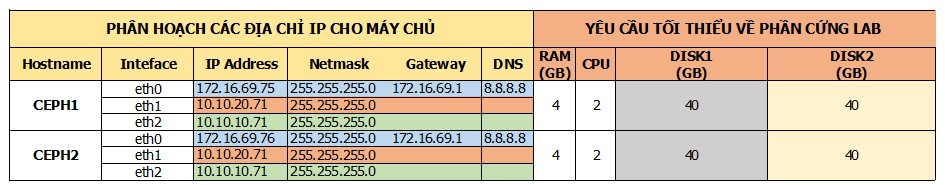
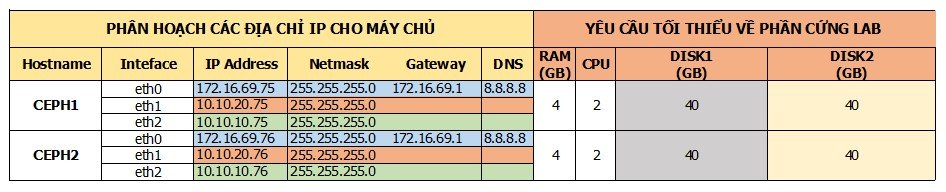
fix content install luminous Ubuntu & Cent

diff --git a/docs/Cai_dat/luminous/2.ceph-deploy-lumious-CentOS7.4.md b/docs/Cai_dat/luminous/2.ceph-deploy-lumious-CentOS7.4.md
@@ -8,11 +8,11 @@
 
 ## Mô hình 
 - Sử dụng mô hình
-![img](../images/ceph_luminous/luminous-topo.jpg)
+![img](../../../images/ceph_luminous/luminous-topo.jpg)
 
 ## IP Planning
 - Phân hoạch IP cho các máy chủ trong mô hình trên
-![img](../images/ceph_luminous/luminous-ip-cent72.jpg)
+![img](../../../images/ceph_luminous/luminous-ip-cent72.jpg)
 
 ## Chuẩn bị và môi trường LAB
  
@@ -70,12 +70,36 @@
   ```
 - Khai báo repos cho CEPH
   ```sh
-  sudo yum install -y yum-utils
-  sudo yum-config-manager --add-repo https://dl.fedoraproject.org/pub/epel/7/x86_64/ 
-  sudo yum install --nogpgcheck -y epel-release 
-  sudo rpm --import /etc/pki/rpm-gpg/RPM-GPG-KEY-EPEL-7 
-  sudo rm /etc/yum.repos.d/dl.fedoraproject.org*
+  sudo vi /etc/yum.repos.d/ceph.repo
   ```
+
+  Nội dung:
+  ```sh
+  [Ceph]
+  name=Ceph packages for $basearch
+  baseurl=http://download.ceph.com/rpm-luminous/el7/$basearch
+  enabled=1
+  gpgcheck=1
+  type=rpm-md
+  gpgkey=https://download.ceph.com/keys/release.asc
+
+  [Ceph-noarch]
+  name=Ceph noarch packages
+  baseurl=http://download.ceph.com/rpm-luminous/el7/noarch
+  enabled=1
+  gpgcheck=1
+  type=rpm-md
+  gpgkey=https://download.ceph.com/keys/release.asc
+
+  [ceph-source]
+  name=Ceph source packages
+  baseurl=http://download.ceph.com/rpm-luminous/el7/SRPMS
+  enabled=1
+  gpgcheck=1
+  type=rpm-md
+  gpgkey=https://download.ceph.com/keys/release.asc
+  ```
+
 - Update sau khi khai báo repo
   ```sh
   yum -y update
@@ -181,7 +205,11 @@ Thực hiện trên host ceph1
 
   [mon.ceph1]
   host = ceph1
-  mon addr = 10.10.10.70
+  mon addr = 10.10.10.75
+
+  [mon.ceph2]
+  host = ceph2
+  mon addr = 10.10.10.76
 
   [osd]
   osd crush update on start = false
@@ -192,17 +220,13 @@ Thực hiện trên host ceph1
   ```sh
   ceph-deploy install --release luminous ceph1 ceph2
   ```
-- Chuyển cấu hình ceph.conf sang các host ceph khác
-  ```sh
-  ceph-deploy --overwrite-conf config push ceph2
-  ```
 
 - Cấu hình `MON` (một thành phần của CEPH)
   ```sh
   ceph-deploy mon create-initial
   ```
 
-- Sau khi thực hiện lệnh để cấu hình `MON` xong, sẽ sinh thêm ra 03 file : `ceph.bootstrap-mds.keyring`, `ceph.bootstrap-osd.keyring` và `ceph.bootstrap-rgw.keyring`. Quan sát bằng lệnh `ll -alh`
+- Sau khi thực hiện lệnh để cấu hình `MON` xong, sẽ sinh thêm ra 04 file : `ceph.bootstrap-mds.keyring`, `ceph.bootstrap-osd.keyring`, `ceph.client.admin.keyring` và `ceph.bootstrap-rgw.keyring`. Quan sát bằng lệnh `ll -alh`
 
   ```sh
   ceph-deploy@ceph1:~/my-cluster$ ls -alh
@@ -219,30 +243,83 @@ Thực hiện trên host ceph1
   -rw------- 1 ceph-deploy ceph-deploy   73 Sep  7 18:34 ceph.mon.keyring
   -rw-r--r-- 1 root        root        1.7K Oct 15  2015 release.asc
   ```
+
 - Tạo user admin để quản trị ceph cluster
   ```sh  
   ceph-deploy admin ceph1
   sudo chmod +r /etc/ceph/ceph.client.admin.keyring
   ```
 
-- Copy `ceph.bootstrap-osd.keyring` sang tất cả các host ceph
-  ```sh
-  scp ceph.bootstrap-osd.keyring ceph1:/var/lib/ceph/bootstrap-osd/ceph.keyring
-  scp ceph.bootstrap-osd.keyring ceph2:/var/lib/ceph/bootstrap-osd/ceph.keyring
-  ```
+### Tạo OSD, có 2 cách, các bạn có thể lựa chọn 1 trong cách để thực hiện:
+  - Tạo OSD trên từng host Ceph
+  - Tạo OSD thông qua ceph-deploy tại host ceph1
 
-Thực hiện trên từng host
-- Tạo các OSD cho CEPH, thay `ceph1` bằng tên hostname của máy bạn 
+#### Cách 1: Tạo OSD qua ceph-deploy
+- Trên ceph1, dùng ceph-deploy để partition ổ cứng OSD, thay `ceph1` bằng hostname của host chứa OSD
   ```sh
   ceph-deploy disk zap ceph1:/dev/vdb
-  ceph-deploy osd prepare ceph1:vdb
   ```
 
-  Lưu ý:
-  Nếu sử dụng lệnh ceph-disk tại host chứa osd sẽ có thêm các tùy chọn vị trí đặt block.db, block.wal
+- Tạo OSD với ceph-deploy
+  ```SH
+  ceph-deploy osd create --data /dev/vdb ceph1
+  ``` 
+
+- Kiểm tra osd vừa tạo bằng lệnh
   ```sh
-  ceph-disk prepare  --bluestore --block.db /dev/vdb  --block.wal /dev/vdb /dev/vdb
+  ceph osd tree
+  ``` 
+
+Kết quả:
+  ```sh
+  ID CLASS WEIGHT   TYPE NAME      STATUS REWEIGHT PRI-AFF 
+-1       46.37151 root default                           
+-3       15.45753     host ceph1                         
+11   hdd  3.63689         osd.0     up  1.00000 1.00000 
   ```
+
+#### Cách 2: Tạo OSD trên từng host
+- Trên ceph1, dùng ceph-deploy để partition ổ cứng OSD, thay `ceph1` bằng hostname của host chứa OSD
+  ```sh
+  ceph-deploy disk zap ceph1:/dev/vdb
+  ```
+
+- Trên host chứa OSD, thực hiện lệnh prepare OSD, thay `ceph1` bằng tên hostname của máy bạn 
+  ```sh 
+  ceph-volume lvm prepare --bluestore --data /dev/vdb
+  ```
+- Sau khi prepare, OSD tạo ra sẽ có ID volume và FSID
+- Kiểm tra FSID của OSD bằng lệnh
+  ```sh
+  lvs
+  ```
+
+Kết quả:
+  ```sh
+    LV                                             VG                                        Attr       LSize   Pool Origin Data%  Meta%  Move Log Cpy%Sync Convert
+  swap                                           cent_storage01                          -wi-ao----  1g                                                    
+  osd-data-e6346e12-c312-4ccf-9b5f-0efeb61d0144  ceph-42804049-4734-4a87-b776-bfad5d382114 -wi-ao----  <39.80g                                               
+  ```
+FSID của OSD là **e6346e12-c312-4ccf-9b5f-0efeb61d0144**
+
+- Kiểm tra ID của OSD bằng lệnh
+  ```sh
+  lsblk
+  ```
+
+Kết quả:
+  ```sh
+  vdb                                                                                                     8:112  0   39G  0 disk  
+└─ceph--42804049--4734--4a87--b776--bfad5d382114-osd--data--e6346e12--c312--4ccf--9b5f--0efeb61d0144  253:5    0   39G  0 lvm   /var/lib/ceph/osd/ceph-0
+
+  ```
+ID của OSD là **0**
+
+- Thực hiện activate OSD với các thông tin và ID và FSID ở trên
+  ```sh
+  ceph-volume lvm activate --bluestore 0 e6346e12-c312-4ccf-9b5f-0efeb61d0144
+  ```
+
   
 - Kiểm tra các phân vùng được tạo ra bằng lệnh `sudo lsblk` (nhớ phải có lệnh sudo vì đang dùng user `ceph-deploy`)
 ```sh
@@ -252,23 +329,19 @@ sr0     11:0    1 1024M  0 rom
 vda    253:0    0   10G  0 disk 
 └─vda1 253:1    0   10G  0 part /
 vdb    253:16   0   40G  0 disk 
-├─vdb1 253:17   0  100M  0 part /var/lib/ceph/osd/ceph-1
-├─vdb2 253:18   0   32G  0 part 
-├─vdb3 253:19   0  5.4G  0 part 
-└─vdb4 253:20   0  2.6G  0 part 
+└─ceph--42804049--4734--4a87--b776--bfad5d382114-osd--data--e6346e12--c312--4ccf--9b5f--0efeb61d0144 253:17   0  40G  0 lvm   /var/lib/ceph/osd/ceph-0
 ```
 
+Kết quả:
+  ```sh
+  ID CLASS WEIGHT   TYPE NAME      STATUS REWEIGHT PRI-AFF 
+-1       46.37151 root default                           
+-3       15.45753     host ceph1                         
+11   hdd  3.63689         osd.0     up  1.00000 1.00000 
+  ```
+
+### Kiểm tra
 Thực hiện trên ceph1
-- Copy key về thư mục `/etc/ceph`
-  ```sh
-  sudo cp ceph.client.admin.keyring /etc/ceph
-  ```
-
-- Phân quyền cho file `/etc/ceph/ceph.client.admin.keyring`
-  ```sh
-  sudo chmod +r /etc/ceph/ceph.client.admin.keyring
-  ```
-
 - Kiểm tra trạng thái của CEPH sau khi cài
   ```sh
   ceph -s
@@ -280,11 +353,11 @@ Thực hiện trên ceph1
   cluster:
     id:     36bb6bc0-5f0d-4418-b403-2d4ca22779a2
     health: HEALTH_OK
-
+ 
   services:
-    mon: 3 daemons, quorum ceph1,ceph2,ceph3
+    mon: 1 daemons, quorum ceph1
     mgr: ceph1(active), standbys: ceph2
-    osd: 3 osds: 3 up, 3 in
+    osd: 2 osds: 2 up, 2 in
  
   data:
     pools:   0 pools, 0 pgs
@@ -295,24 +368,39 @@ Thực hiện trên ceph1
 
 - Nếu có dòng `health HEALTH_OK` thì việc cài đặt đã ok.
 
-- Khi tạo pool, nếu gặp cảnh báo sau khi dùng lênh `ceph -s`
-```sh
-application not enabled on <N> pool(s)
-```
-Ở bản Ceph Luminous, các pool được tạo ra phải chỉ định sử dụng cho gateway nào, VD ta chỉ định pool block sử dụng gateway rbd như sau
-```sh
-ceph osd pool application enable block rbd
-```
-Lúc này cảnh báo trên sẽ không còn.
+Ceph-mgr là một thành phần mới của Ceph (xuất hiện từ bản Luminous), chịu trách nhiệm cho việc mirror dữ liệu giữa các ceph cluster và quản lý tài nguyên của Ceph Cluster. Có thể cài đặt Ceph-mgr daemon trên nhiều host, hoạt động theo cơ chế active-passive.
 
-- Để add thêm cấu hình trên ceph.conf, cần restart lại mon service:
+- Cài đặt ceph-mgr trên ceph1
 ```sh
-systemctl restart ceph-mon.target
+ceph-deploy mgr create ceph1
 ```
-Để kiểm tra cấu hình trên 1 daemon, vd ở đây là mon daemon, dùng lệnh
+- Kiểm tra trạng thái của ceph-mgr bằng `ceph -s`
 ```sh
-ceph daemon /var/run/ceph/ceph-mon.*.asok config show | grep mon_osd_report_timeout
+ceph-deploy@ceph1:~$ ceph -s
+  cluster:
+    id:     36bb6bc0-5f0d-4418-b403-2d4ca22779a2
+    health: HEALTH_OK
+ 
+  services:
+    mon: 3 daemons, quorum ceph1,ceph2,ceph3
+    mgr: ceph1(active)
+    osd: 3 osds: 2 up, 2 in
+ 
+  data:
+    pools:   0 pools, 0 pgs
+    objects: 0 objects, 0 bytes
+    usage:   2132 MB used, 79585 MB / 81717 MB avail
+    pgs:     
 ```
+Chú ý dòng `mgr: ceph1(active)`, ceph-mgr daemon trên host ceph1 đã active
+
+- Ceph-mgr hỗ trợ dashboard để quan sát trạng thái của cluster, Enable mgr dashboard trên host ceph1
+```sh
+ceph mgr module enable dashboard
+```
+
+- Truy cập vào mgr dashboard để kiểm tra
+![img](../../../images/ceph_luminous/ceph_mgr_1.jpg)
 
 Tham khảo:
 

diff --git a/docs/Cai_dat/luminous/3.ceph-deploy-lumious-U1604.md b/docs/Cai_dat/luminous/3.ceph-deploy-lumious-U1604.md
@@ -209,6 +209,11 @@ Kết quả như sau
   [mon.ceph1]
   host = ceph1
   mon addr = 10.10.10.70
+
+  [mon.ceph2]
+  host = ceph2
+  mon addr = 10.10.10.71
+
  
   [osd]
   osd crush update on start = false
